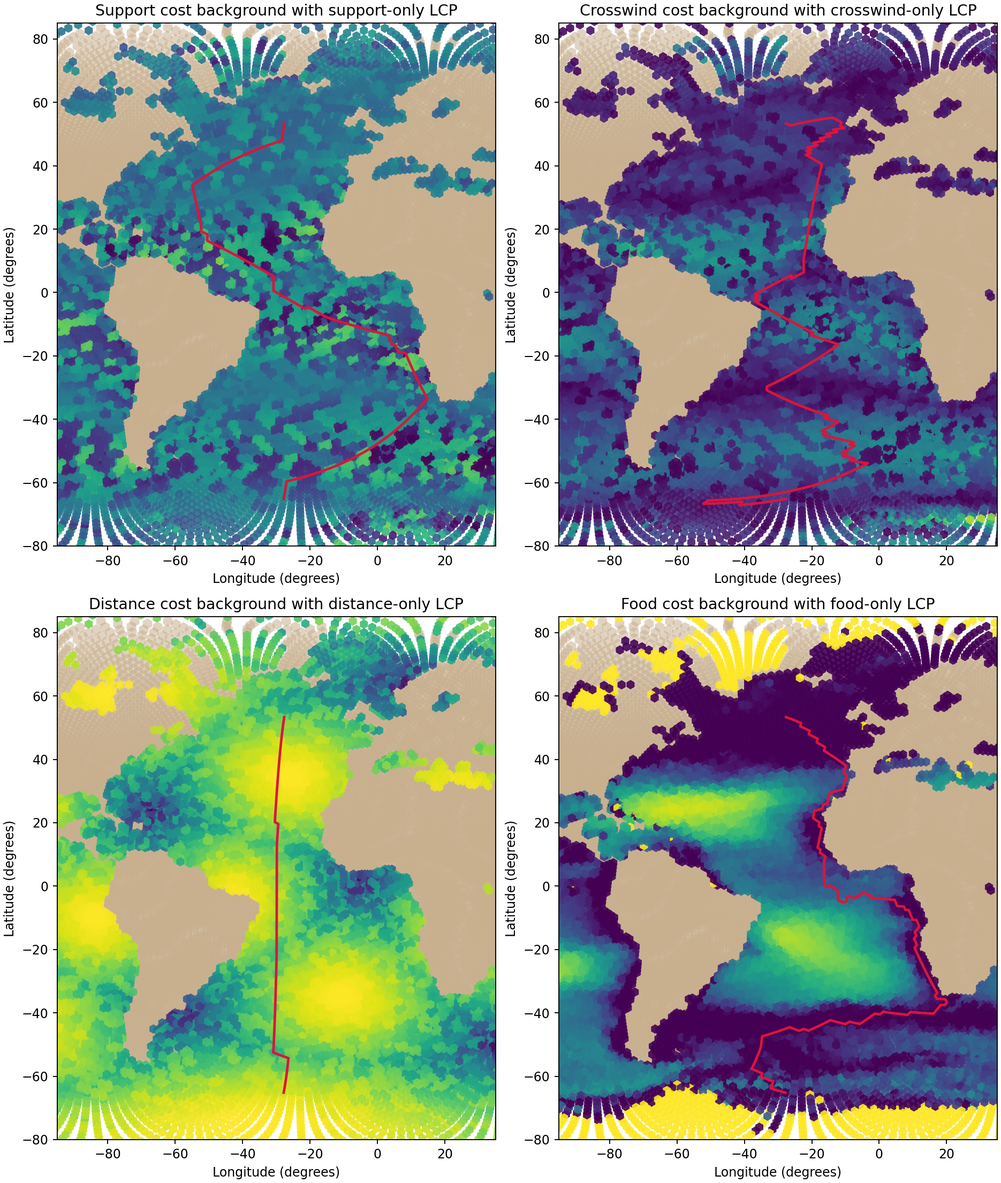
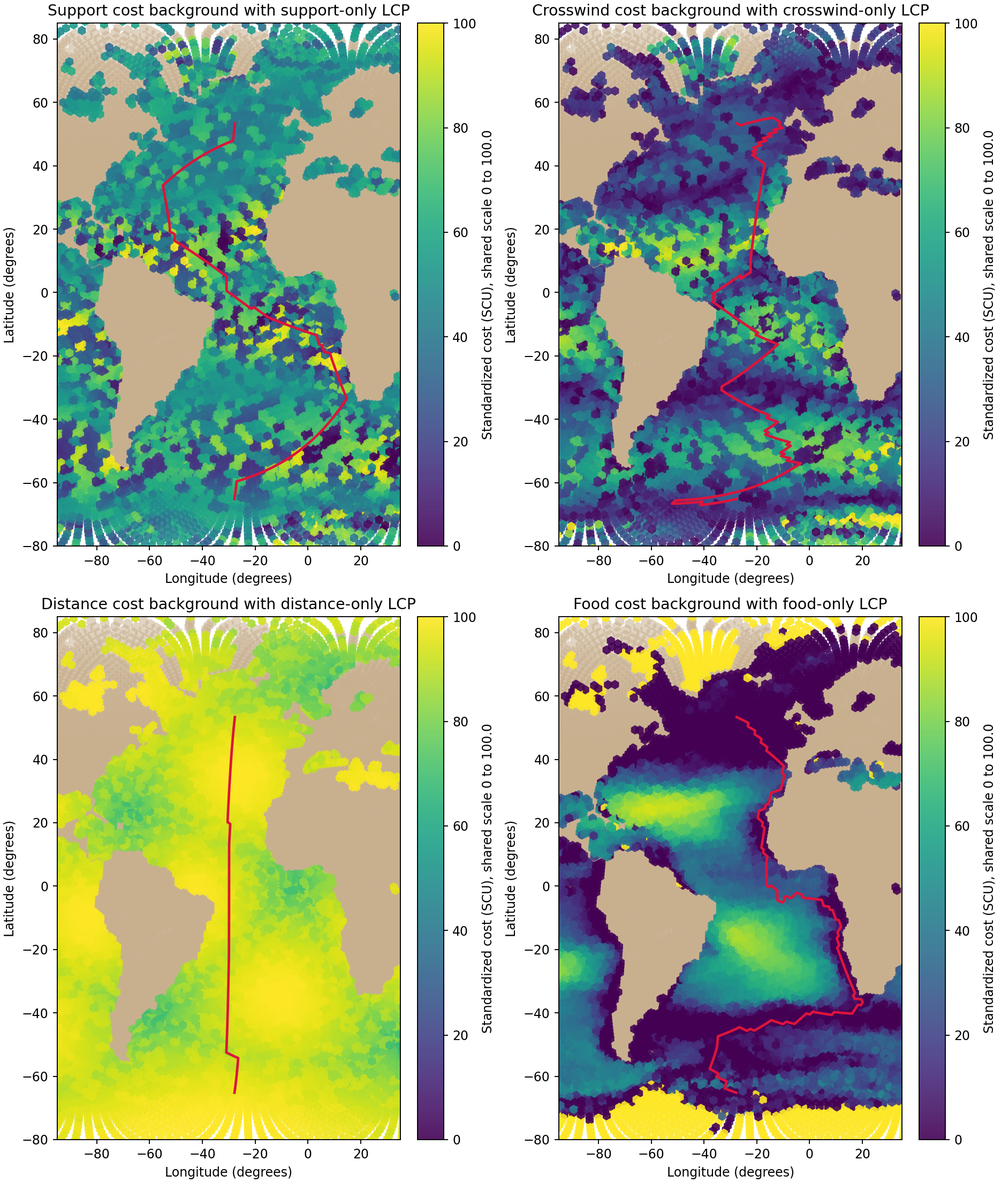
Standardize component-overlay figure scales

diff --git a/src/scripts/12_run_first_h3_dijkstra.py b/src/scripts/12_run_first_h3_dijkstra.py
@@ -246,11 +246,23 @@ def main() -> None:
         "food_only": ("f_cost", "Food cost background with food-only LCP"),
     }
     cell_background = df.groupby("source_h3", as_index=False)[["source_lon", "source_lat", "w_cost", "c_cost", "d_cost", "f_cost"]].first()
+    shared_overlay_max = float(np.nanpercentile(cell_background[["w_cost", "c_cost", "d_cost", "f_cost"]].to_numpy(), 99))
     fig, axes = plt.subplots(2, 2, figsize=(11, 13), constrained_layout=True)
     for ax, behavior in zip(axes.ravel(), ["support_only", "crosswind_only", "distance_only", "food_only"]):
         value_col, title = background_cols[behavior]
         ax.scatter(masked["lon"], masked["lat"], s=75, marker="h", color="#c8b08f", alpha=0.55, linewidths=0)
-        ax.scatter(cell_background["source_lon"], cell_background["source_lat"], c=cell_background[value_col], s=55, marker="h", cmap="viridis", linewidths=0, alpha=0.9)
+        sc = ax.scatter(
+            cell_background["source_lon"],
+            cell_background["source_lat"],
+            c=cell_background[value_col],
+            s=55,
+            marker="h",
+            cmap="viridis",
+            linewidths=0,
+            alpha=0.9,
+            vmin=0.0,
+            vmax=shared_overlay_max,
+        )
         route = path_df[path_df["behavior"] == behavior]
         if not route.empty:
             lons = [route.iloc[0]["source_lon"]] + route["target_lon"].tolist()
@@ -261,6 +273,8 @@ def main() -> None:
         ax.set_ylabel("Latitude (degrees)")
         ax.set_xlim(-95, 35)
         ax.set_ylim(-80, 85)
+        cbar = fig.colorbar(sc, ax=ax)
+        cbar.set_label(f"Standardized cost (SCU), shared scale 0 to {shared_overlay_max:.1f}")
     fig.savefig(OVERLAY_FIGURE_PATH, dpi=170)
     plt.close(fig)
 
@@ -337,6 +351,7 @@ Map framing:
 ## Why the overlay figure is useful, and its limit
 The overlay figure is scientifically useful as a **diagnostic comparison**.
 It helps us check whether each single-factor route is moving through visually low-cost regions of the corresponding component background.
+The four panels reuse the older mapping rule of a shared color scale from `0` to the shared `P99` across the displayed component backgrounds, and each panel has its own explicit colorbar for readability.
 
 However, it should not be interpreted too literally as the exact optimization surface used by Dijkstra, because:
 - the real routing is done on the directed edge graph

diff --git a/results/reports/12_run-first-h3-dijkstra.md b/results/reports/12_run-first-h3-dijkstra.md
@@ -70,6 +70,7 @@ Map framing:
 ## Why the overlay figure is useful, and its limit
 The overlay figure is scientifically useful as a **diagnostic comparison**.
 It helps us check whether each single-factor route is moving through visually low-cost regions of the corresponding component background.
+The four panels reuse the older mapping rule of a shared color scale from `0` to the shared `P99` across the displayed component backgrounds, and each panel has its own explicit colorbar for readability.
 
 However, it should not be interpreted too literally as the exact optimization surface used by Dijkstra, because:
 - the real routing is done on the directed edge graph
